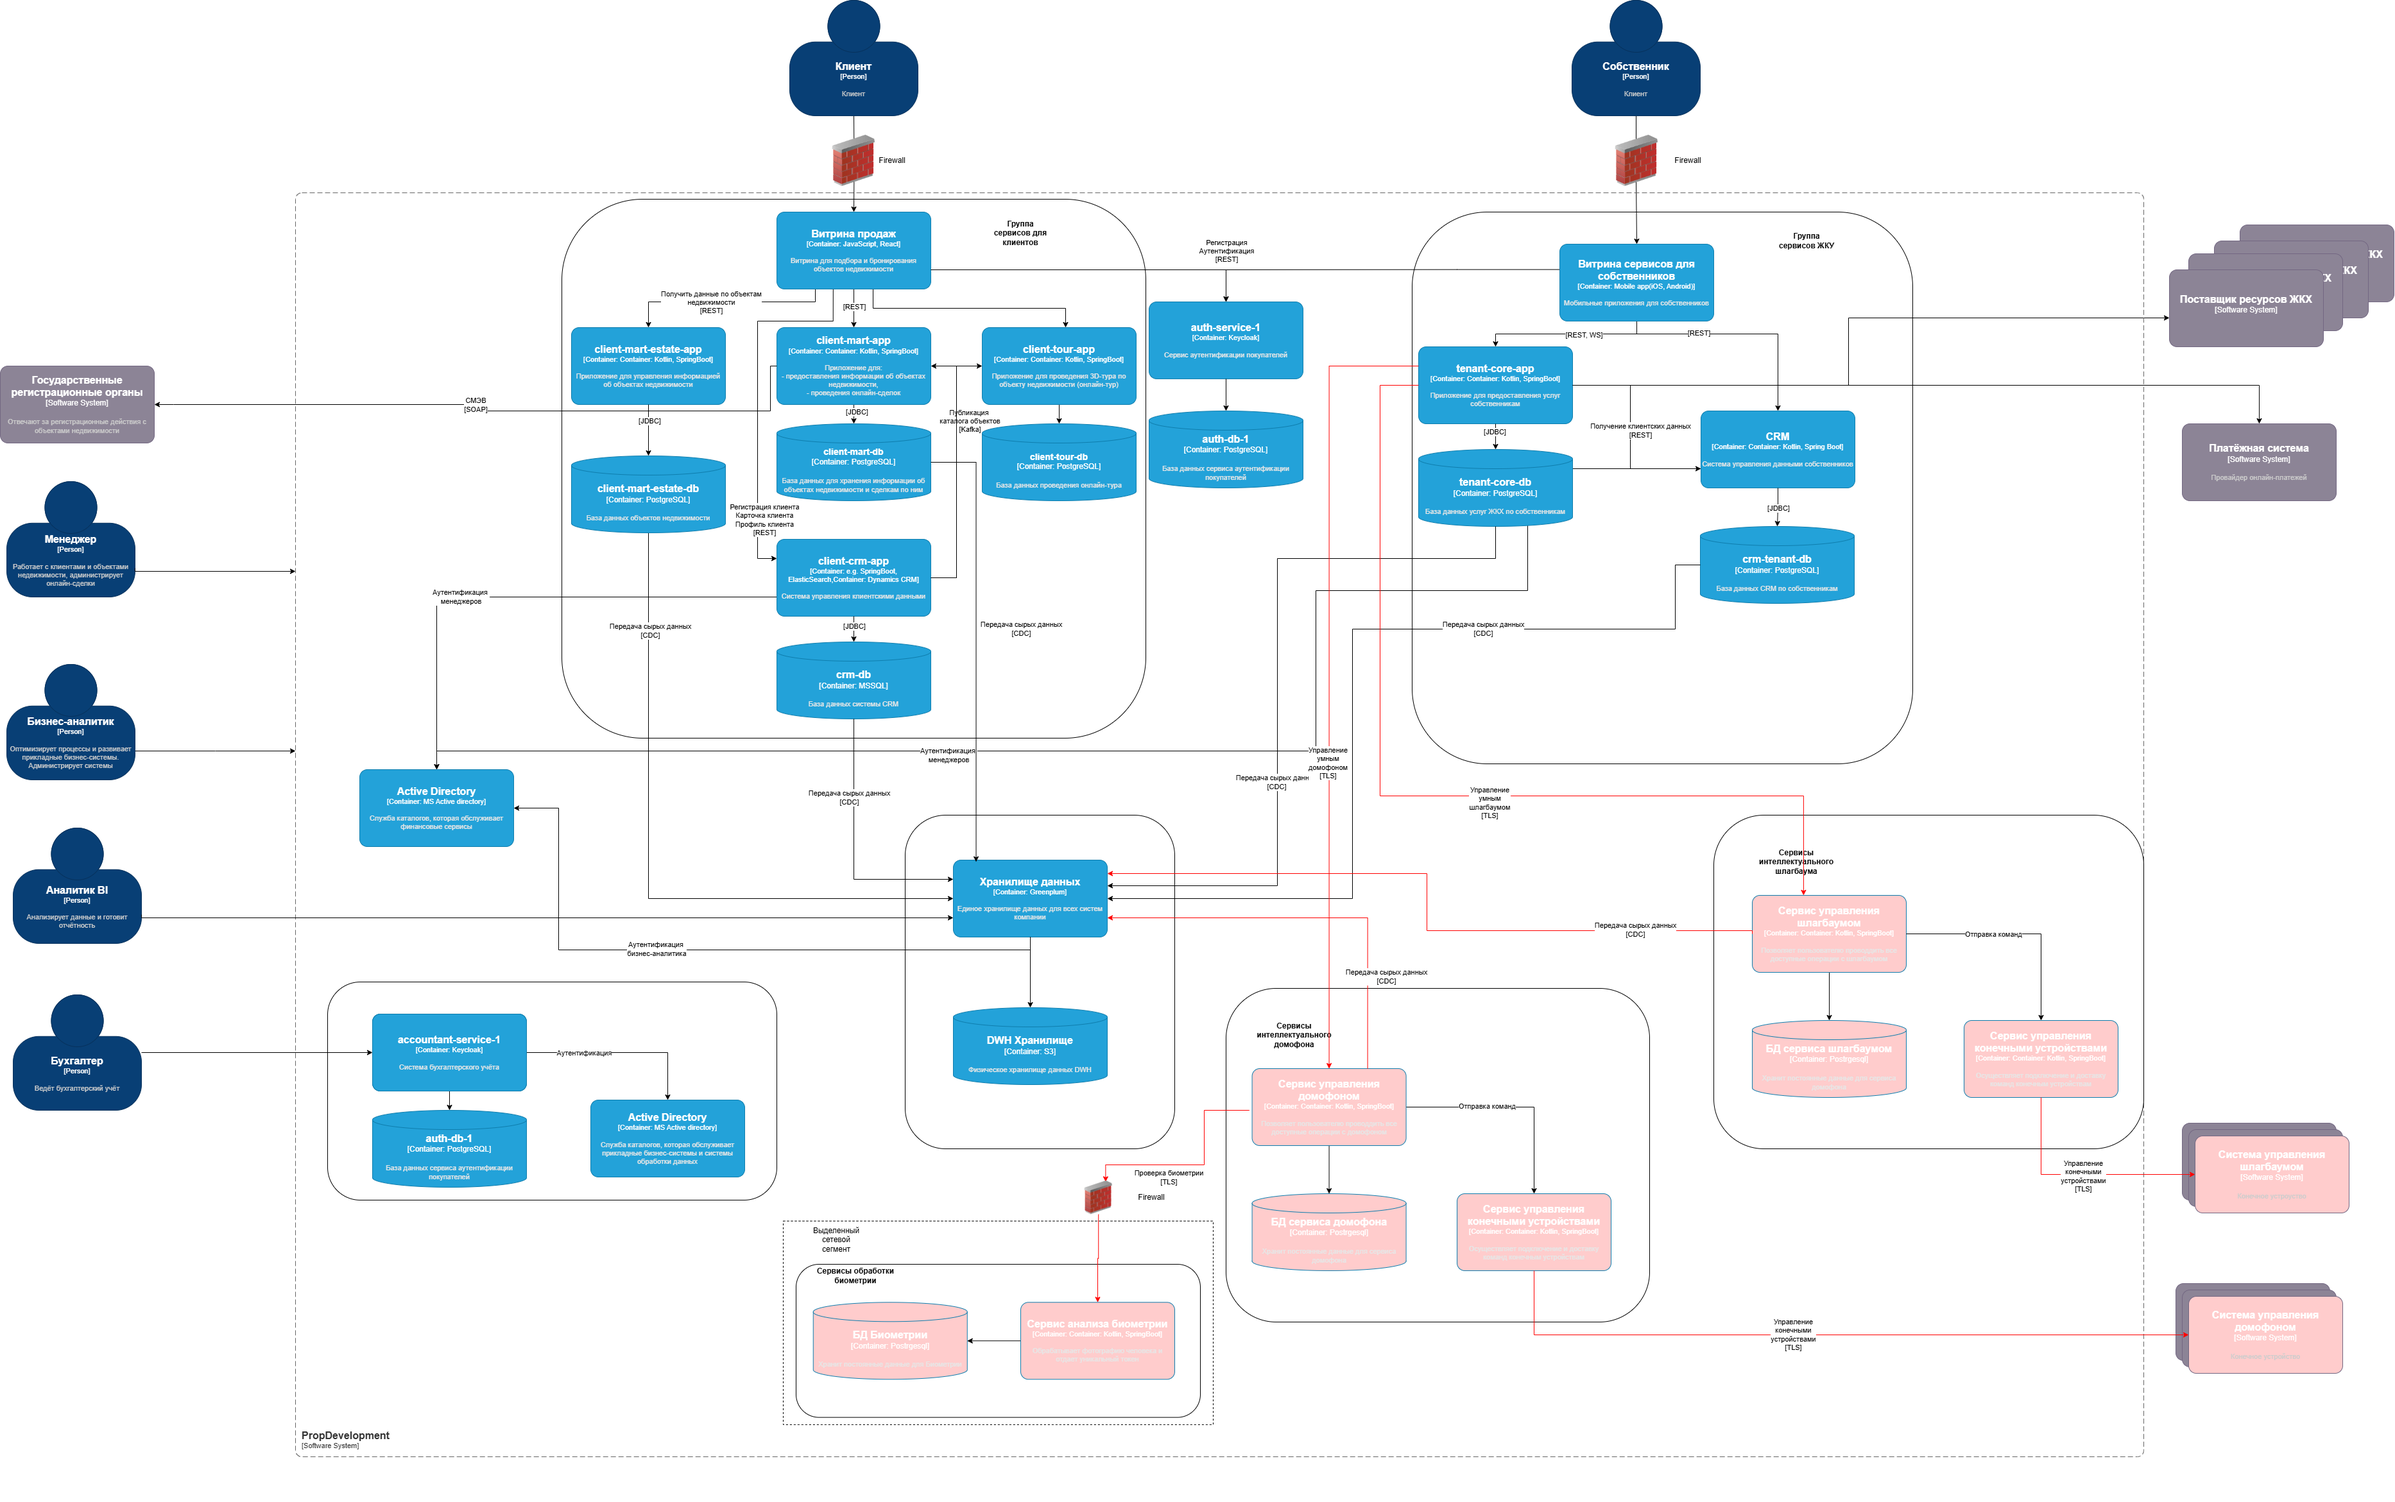
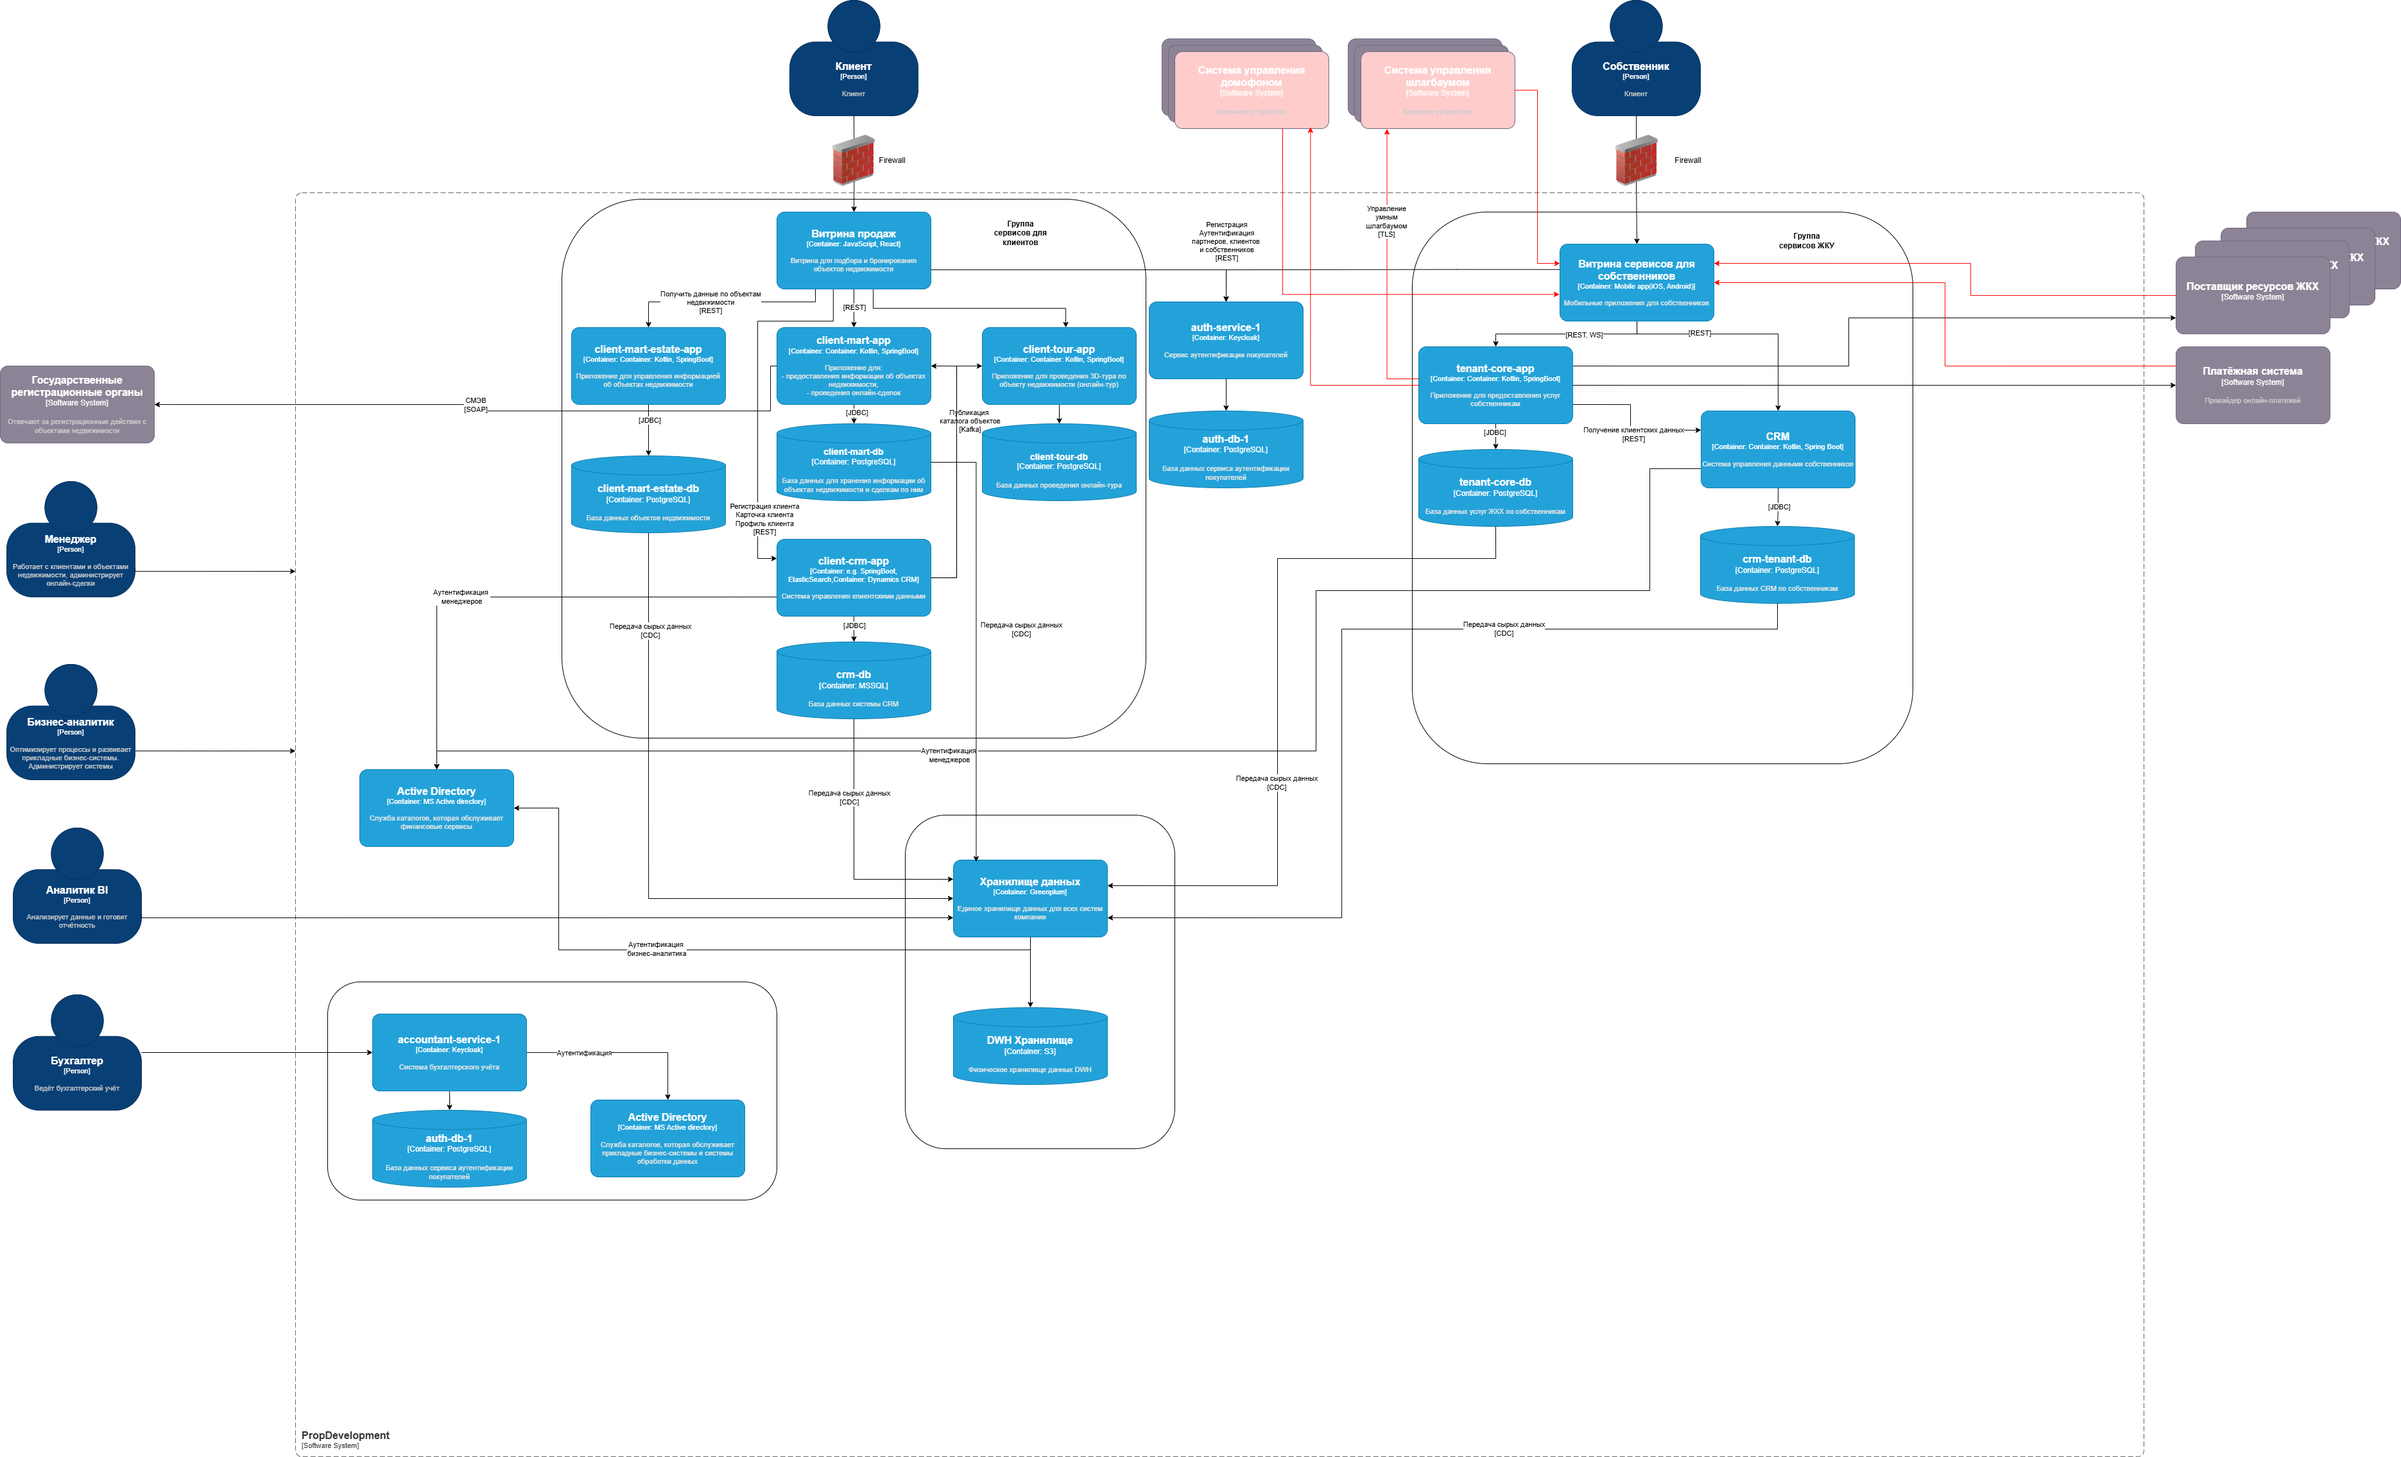
Правки по замечаниям ревьюера

diff --git a/Task3/readme.md b/Task3/readme.md
@@ -14,11 +14,11 @@
 
 1. Все внешние интеграции должны использовать протоколы шифрования для предотвращения перехвата и измененя данных.
 2. Все внешние интеграции должны проходить авторизацию и аутентификацию перед получениеим доступа к данным.
-3. Информация, передаваемая во внешние системы, должна быть минимально необходимой для выполнения требуемых функций.
-4. Передаваемая информация должна быть обезличена.
+3. Информация, передаваемая во внешние системы, должна быть обезличенной и минимально необходимой для выполнения требуемых функций
+4. Работа с персональными данными должна соответствовать Федеральному закону № 152-ФЗ от 27 июля 2006 года «О персональных данных»
 
 ### Протоколы аутентификации и авторизации, взаимодействие между системами предприятия и внешней платформой
 
  - Для аутентификации запросов передачи данных между платформами можно использовать системы API-аутентификации, такие как OAuth 2.0.
- - Платформы должны использовать TLS для передачи данных и токенов, подтверждающих аутентификацию. 
+ - Платформы должны использовать TLS 1.3 для передачи данных и токенов, подтверждающих аутентификацию. 
  - В качестве SSO использовать Keycloak.
